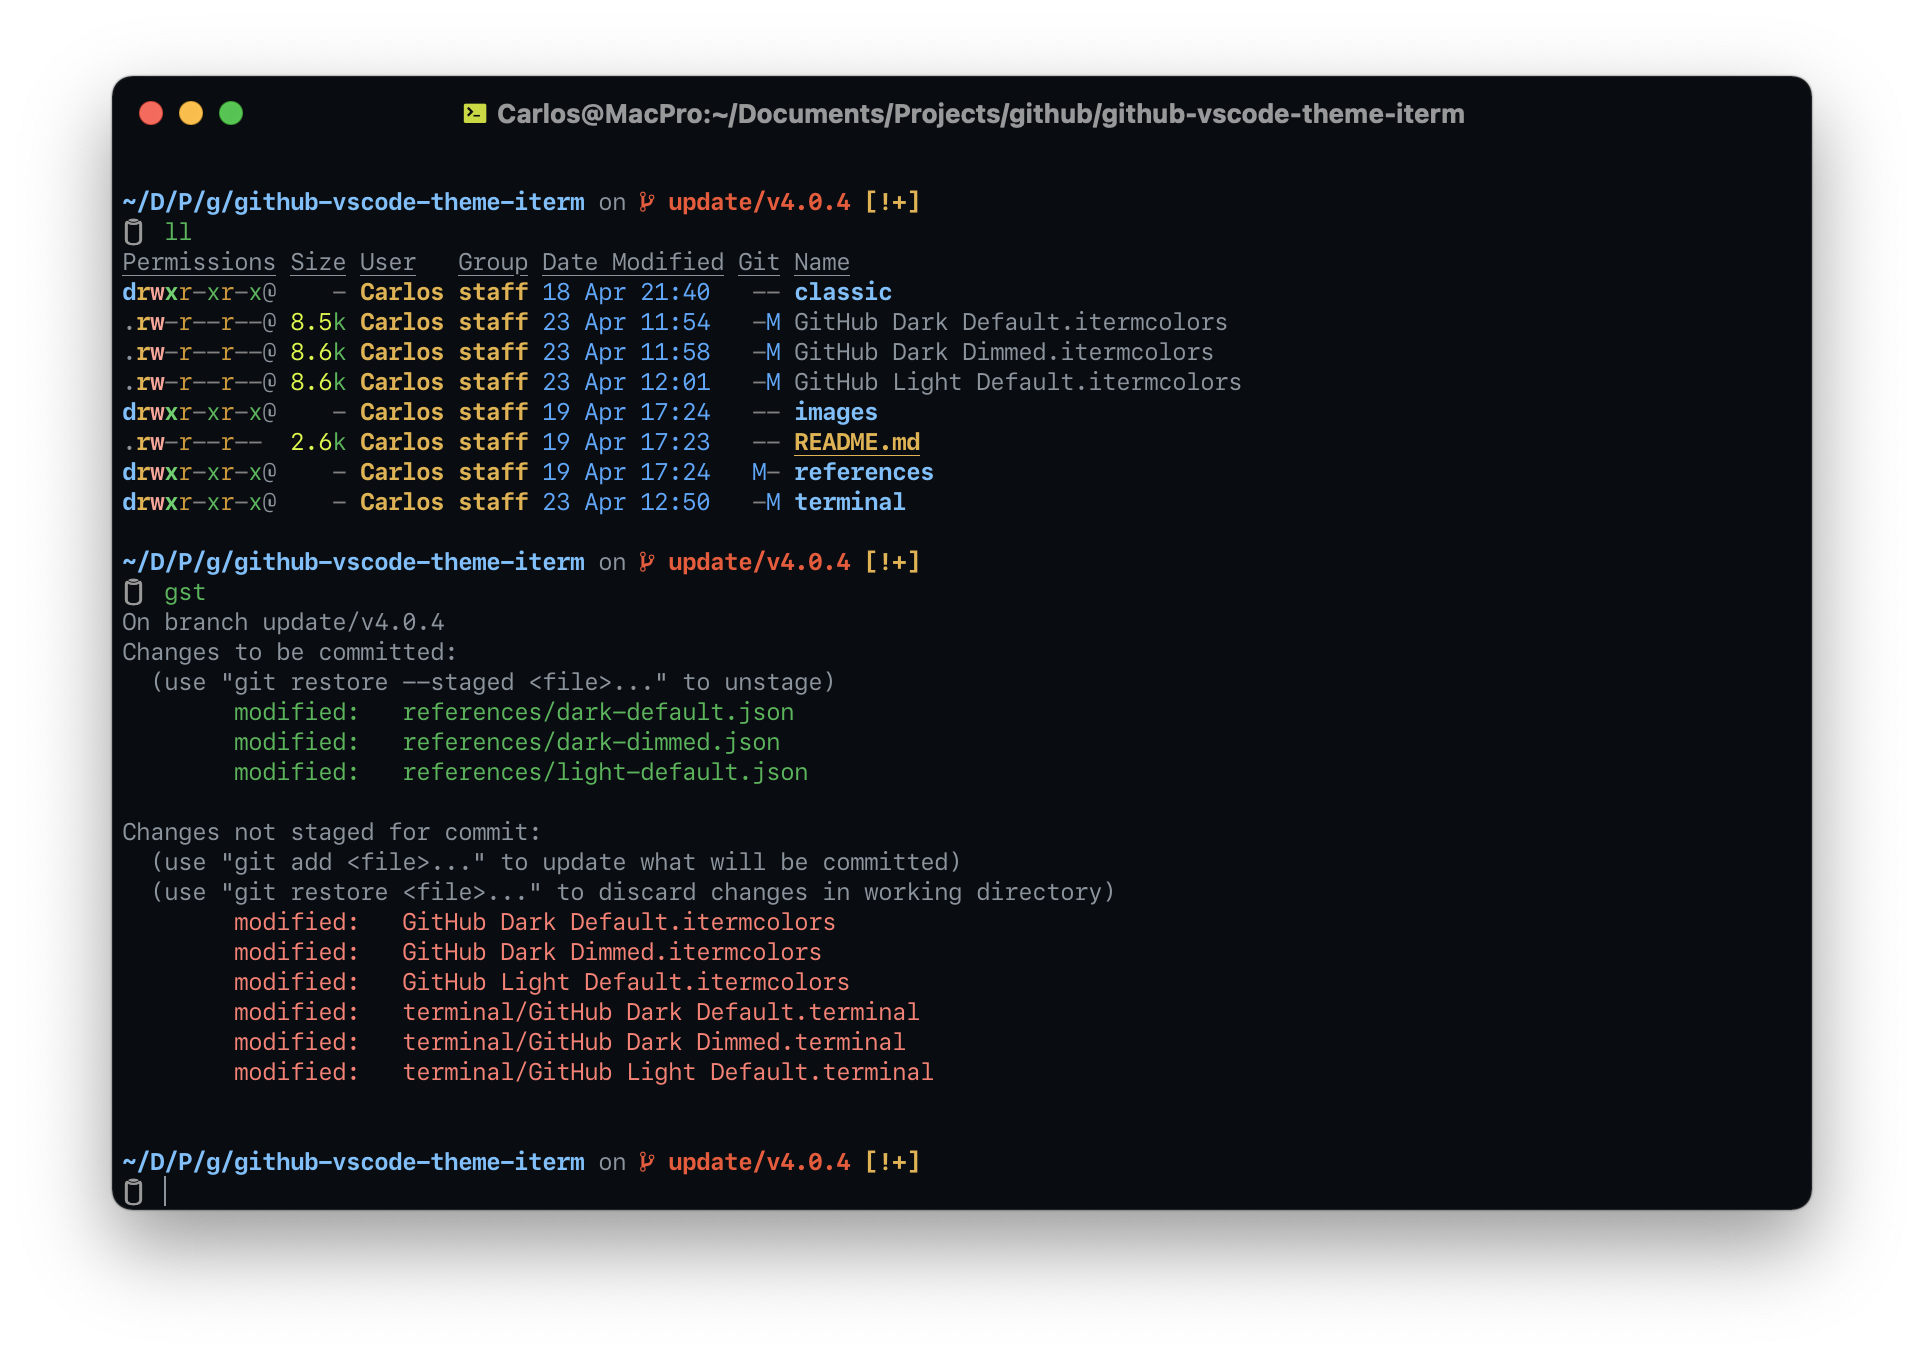
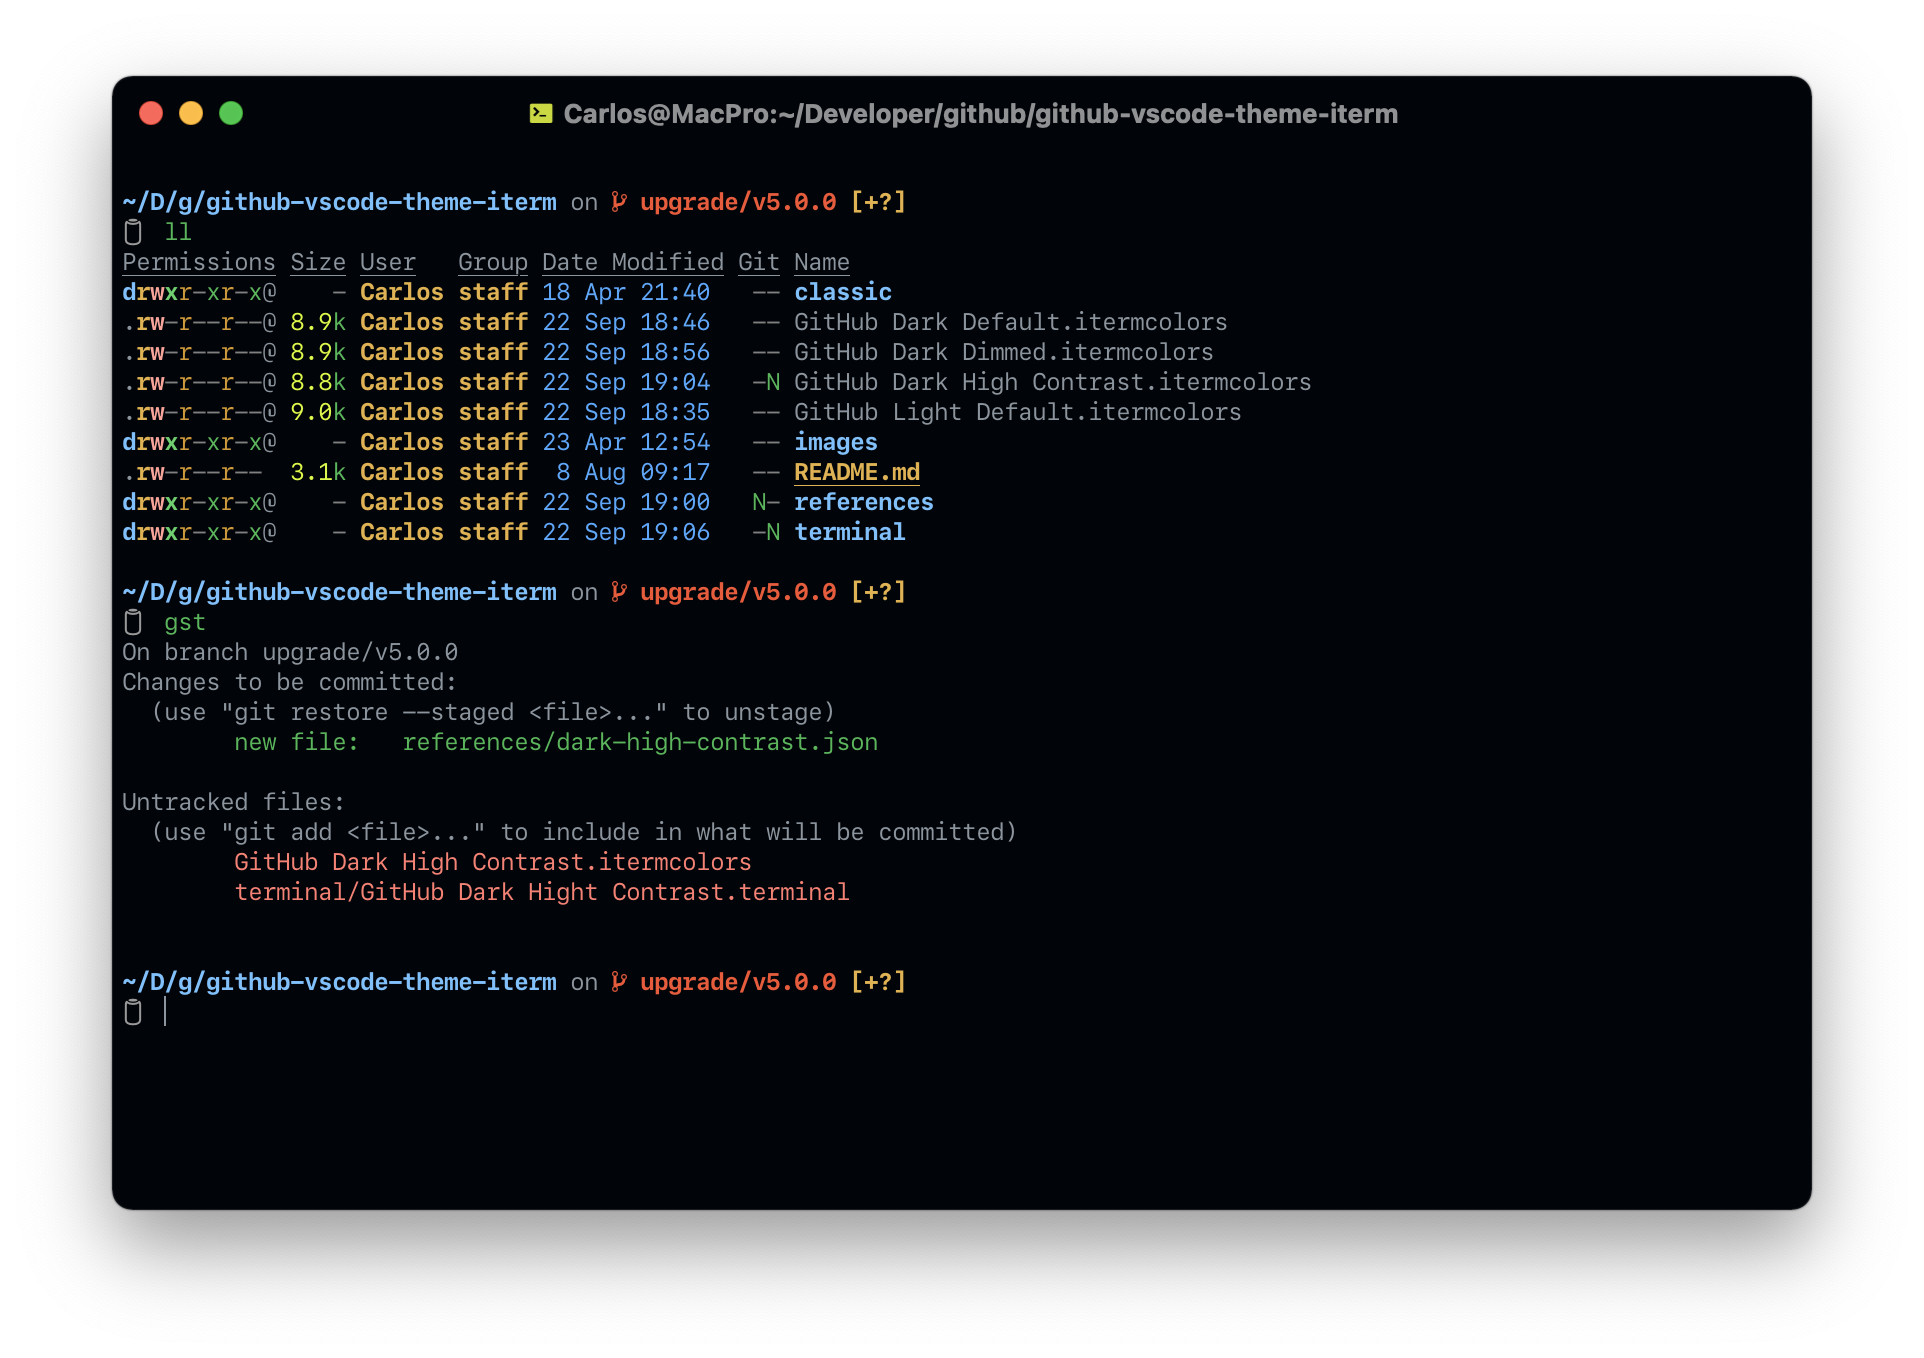
doc: Update documentation

diff --git a/README.md b/README.md
@@ -2,9 +2,9 @@
 
 # GitHub VS Code Theme for iTerm
 
-<img src="https://github.gallerycdn.vsassets.io/extensions/github/github-vscode-theme/4.0.4/1619167378915/Microsoft.VisualStudio.Services.Icons.Default" width="64px" align="right" style="top: 1px; visibility: visible;" />
+<img src="https://github.gallerycdn.vsassets.io/extensions/github/github-vscode-theme/5.0.0/1632266107024/Microsoft.VisualStudio.Services.Icons.Default" width="64px" align="right" style="top: 1px; visibility: visible;" />
 
-[GitHub Visual Studio Code Theme][vscode-github-theme-marketplace] for [iTerm](https://iterm2.com) (Dark, Dimmed & Light)
+[GitHub Visual Studio Code Theme][vscode-github-theme-marketplace] for [iTerm](https://iterm2.com) (Dark, Dimmed, Light and High Contrast)
 
 <p style="font-size:8pt">
   <img src="images/GitHubThemeiTerm.png">
@@ -16,6 +16,7 @@ Download iTerm profiles and open them.
 - [GitHub Dark Default.itermcolors](https://raw.githubusercontent.com/cdalvaro/github-theme-iterm/HEAD/GitHub%20Dark%20Default.itermcolors)
 - [GitHub Dark Dimmed.itermcolors](https://raw.githubusercontent.com/cdalvaro/github-theme-iterm/HEAD/GitHub%20Dark%20Dimmed.itermcolors)
 - [GitHub Light Default.itermcolors](https://raw.githubusercontent.com/cdalvaro/github-theme-iterm/HEAD/GitHub%20Light%20Default.itermcolors)
+- [GitHub Dark High Contrast.itermcolors](https://raw.githubusercontent.com/cdalvaro/github-theme-iterm/HEAD/GitHub%20Dark%20High%20Contrast.itermcolors)
 
 ### Classic themes
 
@@ -33,6 +34,7 @@ You can also download these profiles for Apple Terminal app:
 - [GitHub Dark Default.terminal](https://raw.githubusercontent.com/cdalvaro/github-theme-iterm/HEAD/terminal/GitHub%20Dark%20Default.terminal)
 - [GitHub Dark Dimmed.terminal](https://raw.githubusercontent.com/cdalvaro/github-theme-iterm/HEAD/terminal/GitHub%20Dark%20Dimmed.terminal)
 - [GitHub Light Default.terminal](https://raw.githubusercontent.com/cdalvaro/github-theme-iterm/HEAD/terminal/GitHub%20Light%20Default.terminal)
+- [GitHub Dark High Contrast.terminal](https://raw.githubusercontent.com/cdalvaro/github-theme-iterm/HEAD/terminal/GitHub%20Dark%20High%20Contrast.terminal)
 
 ### Classic themes
 
@@ -40,8 +42,8 @@ You can also download these profiles for Apple Terminal app:
 - [GitHub Light.terminal](https://raw.githubusercontent.com/cdalvaro/github-theme-iterm/HEAD/terminal/classic/GitHub%20Light.terminal)
 
 [vscode-github-theme-marketplace]: https://marketplace.visualstudio.com/items?itemName=GitHub.github-vscode-theme
-[vscode-github-theme-version]: https://img.shields.io/badge/GitHub%20Theme-v4.0.4-007ACC?style=flat-square&logo=visual-studio-code&logoColor=007ACC
-[github-vscode-theme-release]: https://github.com/primer/github-vscode-theme/releases/tag/v4.0.4
+[vscode-github-theme-version]: https://img.shields.io/badge/GitHub%20Theme-v5.0.0-007ACC?style=flat-square&logo=visual-studio-code&logoColor=007ACC
+[github-vscode-theme-release]: https://github.com/primer/github-vscode-theme/releases/tag/v5.0.0
 
 ---
 
